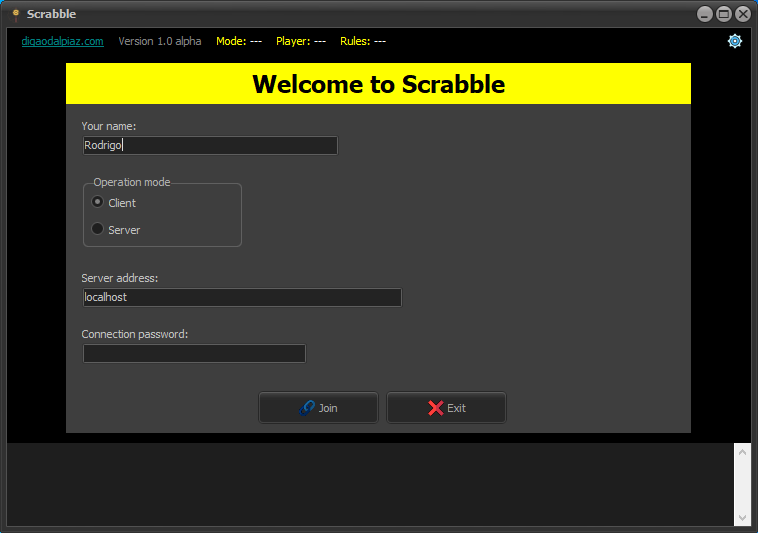
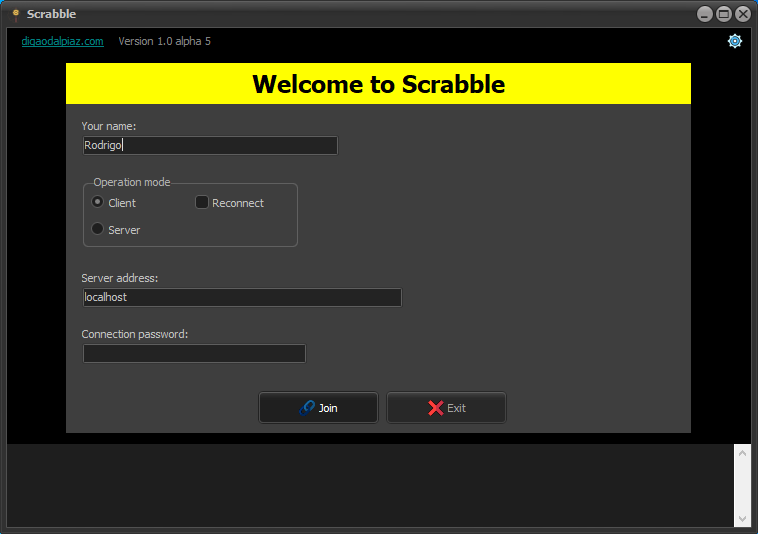
about missing players

diff --git a/README.md b/README.md
@@ -22,6 +22,8 @@ The game depends on all players being present to proceed with the moves. In this
 2. Wait for the player to re-establish the connection.
 3. Stop the game permanently.
 
+![Missing players screen](Images/demo_drop.png)
+
 Some well-known and reputable games use the voting technique, where all the remaining players decide together what will be done. Here this decision is made only by the server, to make the process easier.
 
 ### How to play
